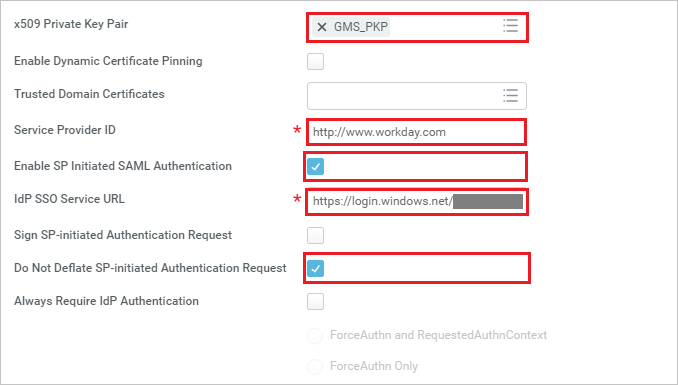
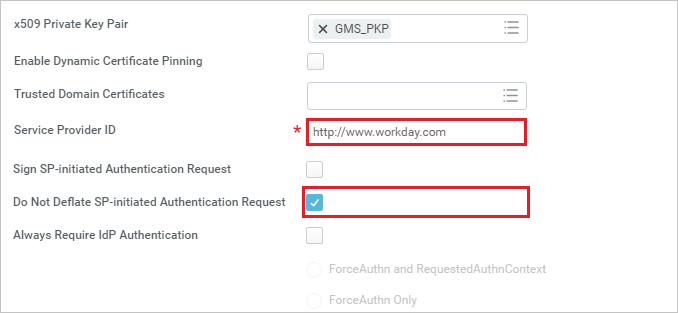
updating inline tutorials

diff --git a/articles/en-us/workday/sso_configure.md b/articles/en-us/workday/sso_configure.md
@@ -3,7 +3,7 @@
 To configure Azure AD integration with Workday, you need the following items:
 
 - An Azure AD subscription
-- A Workday single-sign on enabled subscription
+- A Workday single sign-on enabled subscription
 
 > **Note:**
 > To test the steps in this tutorial, we do not recommend using a production environment.
@@ -11,121 +11,114 @@ To configure Azure AD integration with Workday, you need the following items:
 To test the steps in this tutorial, you should follow these recommendations:
 
 - Do not use your production environment, unless it is necessary.
-- If you don't have an Azure AD trial environment, you can get a one-month trial [here](https://azure.microsoft.com/pricing/free-trial/).
+- If you don't have an Azure AD trial environment, you can [get a one-month trial](https://azure.microsoft.com/pricing/free-trial/).
 
 ### Configuring Workday for single sign-on
 
 1. In a different web browser window, log in to your Workday company site as an administrator.
 
-2. Go to **Menu \> Workbench**.
+2. In the **Search box** search with the name **Edit Tenant Setup – Security** on the top left side of the home page.
    
-    ![Workbench](./media/ic782923.png "Workbench")
+    ![Edit Tenant Security](./media/IC782925.png "Edit Tenant Security")
 
-3. Go to **Account Administration**.
+3. In the **Redirection URLs** section, perform the following steps:
    
-    ![Account Administration](./media/ic782924.png "Account Administration")
-
-4. Go to **Edit Tenant Setup – Security**.
-   
-    ![Edit Tenant Security](./media/ic782925.png "Edit Tenant Security")
-
-5. In the **Redirection URLs** section, perform the following steps:
-   
-    ![Redirection URLs](./media/ic7829581.png "Redirection URLs")
+    ![Redirection URLs](./media/IC7829581.png "Redirection URLs")
    
     a. Click **Add Row**.
    
     b. In the **Login Redirect URL** textbox and the **Mobile Redirect URL** textbox, type the **Sign-on URL** you have entered on the **Workday Domain and URLs** section of the Azure portal.
    
-    c. In the Azure portal, on the **Configure sign-on** window, copy the **Azure AD Sign Out URL** : %metadata:singleLogoutServiceUrl%, and then paste it into the **Logout Redirect URL** textbox.
-   
-    d.  In **Environment** textbox, type the environment name.  
+    c. In the Azure portal, on the **Configure sign-on** window, copy the **Azure AD Sign Out URL** : %metadata:singleSignOutServiceUrl%, and then paste it into the **Logout Redirect URL** textbox.
 
-    >**Note:**
+    d. In **Used for Environments** textbox, select the environment name.  
+
+    >[!NOTE]
     > The value of the Environment attribute is tied to the value of the tenant URL:  
-    >-If the domain name of the Workday tenant URL starts with impl (for example, *https://impl.workday.com/\<tenant\>/login-saml2.htmld*), the **Environment** attribute must be set to Implementation.  
+    >-If the domain name of the Workday tenant URL starts with impl for example: *https://impl.workday.com/\<tenant\>/login-saml2.htmld*), the **Environment** attribute must be set to Implementation.  
     >-If the domain name starts with something else, you need to contact [Workday Client support team](https://www.workday.com/en-us/partners-services/services/support.html) to get the matching **Environment** value.
 
-6. In the **SAML Setup** section, perform the following steps:
+4. In the **SAML Setup** section, perform the following steps:
    
-    ![SAML Setup](./media/ic782926.png "SAML Setup")
+    ![SAML Setup](./media/IC782926.png "SAML Setup")
    
     a.  Select **Enable SAML Authentication**.
    
     b.  Click **Add Row**.
 
-7. In the SAML Identity Providers section, perform the following steps:
+5. In the **SAML Identity Providers** section, perform the following steps:
    
-    ![SAML Identity Providers](./media/ic7829271.png "SAML Identity Providers")
+    ![SAML Identity Providers](./media/IC7829271.png "SAML Identity Providers")
    
-    a. In the Identity Provider Name textbox, type a provider name (for example, *SPInitiatedSSO*).
+    a. In the **Identity Provider Name** textbox, type a provider name (for example: *SPInitiatedSSO*).
    
-    b. In the Azure portal, on the **Configure sign-on** window, copy the **Azure AD SAML Entity ID** : %metadata:IssuerUri% value, and then paste it into the **Issuer** textbox.
+    b. In the Azure portal, on the **Configure sign-on** window, copy the **SAML Entity ID** value, and then paste it into the **Issuer** textbox.
    
     c. Select **Enable Workday Initiated Logout**.
    
-    d. In the Azure portal, on the **Configure sign-on** window, copy the **Azure AD Sign Out URL** : %metadata:singleLogoutServiceUrl% value, and then paste it into the **Logout Request URL** textbox.
+    d. In the Azure portal, on the **Configure sign-on** window, copy the **Azure AD Sign Out URL** : %metadata:singleSignOutServiceUrl% value, and then paste it into the **Logout Response URL** textbox.
 
-    e. Click **Identity Provider Public Key Certificate**, and then click **Create**. 
+	e. In the Azure portal, on the **Configure sign-on** window, copy the **Azure AD Single Sign-On Service URL** : %metadata:singleSignOnServiceUrl% value, and then paste it into the **IdP SSO Service URL** textbox.
 
-    ![Create](./media/ic782928.png "Create")
+	f. In **Used for Environments** textbox, select the environment name.
 
-    f. Click **Create x509 Public Key**. 
+    g. Click **Identity Provider Public Key Certificate**, and then click **Create**. 
 
-    ![Create](./media/ic782929.png "Create")
+    ![Create](./media/IC782928.png "Create")
 
-8. In the **View x509 Public Key** section, perform the following steps: 
+    h. Click **Create x509 Public Key**. 
+
+    ![Create](./media/IC782929.png "Create")
+
+6. In the **View x509 Public Key** section, perform the following steps: 
    
-    ![View x509 Public Key](./media/ic782930.png "View x509 Public Key") 
+    ![View x509 Public Key](./media/IC782930.png "View x509 Public Key") 
    
-    a. In the **Name** textbox, type a name for your certificate (for example, *PPE\_SP*).
+    a. In the **Name** textbox, type a name for your certificate (for example: *PPE\_SP*).
    
     b. In the **Valid From** textbox, type the valid from attribute value of your certificate.
    
     c.  In the **Valid To** textbox, type the valid to attribute value of your certificate.
    
-    > **Note:**
+    > [!NOTE]
     > You can get the valid from date and the valid to date from the downloaded certificate by double-clicking it.  The dates are listed under the **Details** tab.
-  
-    d.  Open your **[Azure AD Signing Certificate (Base64 encoded)](%metadata:certificateDownloadBase64Url%)** in notepad, and then copy the content of it.
+    > 
+    >
+   
+    d.  Open your base-64 encoded certificate in notepad, and then copy the content of it.
    
     e.  In the **Certificate** textbox, paste the content of your clipboard.
    
     f.  Click **OK**.
 
-9. Perform the following steps: 
+7. Perform the following steps: 
    
-    ![SSO configuration](./media/workdayssoconfiguratio.png "SSO configuration")
+    ![SSO configuration](./media/WorkdaySSOConfiguratio.png "SSO configuration")
    
-    a.  Enable the **x509 Private Key Pair**.
+    a.  In the **Service Provider ID** textbox, type **http://www.workday.com**.
    
-    b.  In the **Service Provider ID** textbox, type **http://www.workday.com**.
+    b. Select **Do Not Deflate SP-initiated Authentication Request**.
    
-    c.  Select **Enable SP Initiated SAML Authentication**.
+    c. As **Authentication Request Signature Method**, select **SHA256**. 
    
-    d.  In the Azure portal, on the **Configure sign-on** window, copy the **Azure AD Single Sign-On Service URL** : %metadata:singleSignOnServiceUrl% value, and then paste it into the **IdP SSO Service URL** textbox.
+    ![Authentication Request Signature Method](./media/WorkdaySSOConfiguration.png "Authentication Request Signature Method") 
    
-    e. Select **Do Not Deflate SP-initiated Authentication Request**.
+    d. Click **OK**. 
    
-    f. As **Authentication Request Signature Method**, select **SHA256**. 
-   
-    ![Authentication Request Signature Method](./media/workdayssoconfiguration.png "Authentication Request Signature Method") 
-   
-    g. Click **OK**. 
-   
-    ![OK](./media/ic782933.png "OK")
+    ![OK](./media/IC782933.png "OK")
 
 ## Quick Reference
 
 * **Azure AD Single Sign-On Service URL** : %metadata:singleSignOnServiceUrl%
 
-* **Azure AD Sign Out URL** : %metadata:singleSignOnServiceUrl%
+* **Azure AD Sign Out URL** : %metadata:singleSignOutServiceUrl%
 
 * **Azure AD SAML Entity ID** : %metadata:IssuerUri%
 
-* **[Download Azure AD Signing Certificate (Base64 encoded)](%metadata:certificateDownloadBase64Url%)**
+* **[Download Azure AD Signing Certifcate (Base64 encoded)](%metadata:certificateDownloadBase64Url%)**
+
+
 
 ## Additional Resources
 
-* [How to integrate Workday with Azure Active Directory](active-directory-saas-workday-tutorial.md)
-* [How to configure user provisioning with Workday](active-directory-saas-workday-user-provisioning-tutorial.md)
+* [How to integrate Workday with Azure Active Directory](https://docs.microsoft.com/azure/active-directory)
